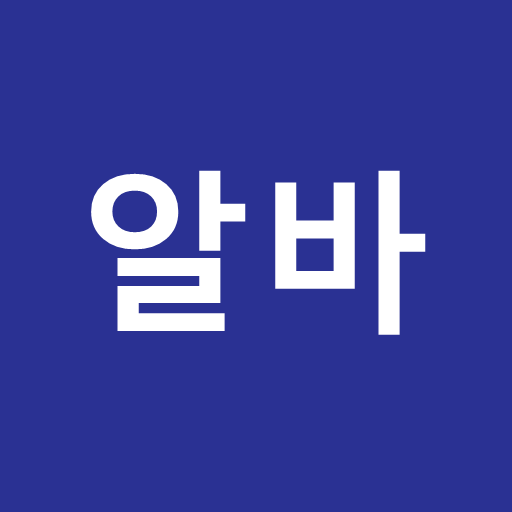
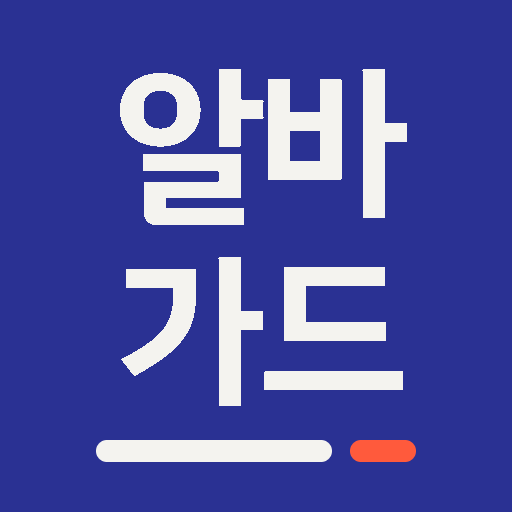
앱 아이콘: '알바 / 가드' 두 줄 글자 + 빨간 한 칸 (시안 AC)

diff --git a/CLAUDE.md b/CLAUDE.md
@@ -189,7 +189,7 @@
 - **다크 모드**: 폰 설정을 따르고, 설정 탭 "화면"에서 폰 설정대로·밝게·어둡게를 고를 수 있다(`src/lib/theme.js`). 증빙 묶음 문서는 항상 흰 종이. 폰 상태 표시줄 색은 첫 화면에서는 남색, 나머지는 바탕색(`syncBarColor`)
 - 색·글꼴은 `src/styles.css` 맨 위 변수로 관리. **색을 직접 쓰지 말고 변수를 쓴다.** 어두운 화면 값은 두 군데(폰 설정용, 수동 선택용)에 똑같이 있으니 같이 고친다
 - 앱처럼 느껴지게: 버튼 글자 선택 안 됨, 누르면 살짝 줄어듦, 화면 끝에서 통째로 당겨지지 않음, 입력 창은 아래에서 올라옴(`Modal.jsx`), 아이폰 위아래 여백 처리
-- 선 아이콘은 `src/components/Icon.jsx`. 앱 아이콘(`public/icon-*.png`)은 남색 바탕에 흰 "알바"
+- 선 아이콘은 `src/components/Icon.jsx`. 앱 아이콘(`public/icon-*.png`)은 남색 바탕에 흰 글자 "알바 / 가드" 두 줄 + 아래 줄 하나의 끝만 빨강(덜 받은 한 칸). 2026.10.6에 캔버스 시안 48개 중 AC를 골랐다(하우머치·기그처럼 글자 아이콘 + 우리만의 빨간 한 칸). 글꼴은 앱과 같은 IBM Plex Sans KR 굵은체. 다시 만들 때는 브라우저 캔버스로 그려 PNG로 저장했다(이 글꼴이 컴퓨터에 설치되어 있지 않아 그림 도구로는 못 만든다). 예전 "알바" 한 줄 아이콘은 git에 있다
 - 주소 끝의 `#탭이름`(`#home`, `#calendar`, `#pay`, `#request`, `#workplaces`)으로 그 탭이 바로 열린다
 
 ### README 화면 캡처
